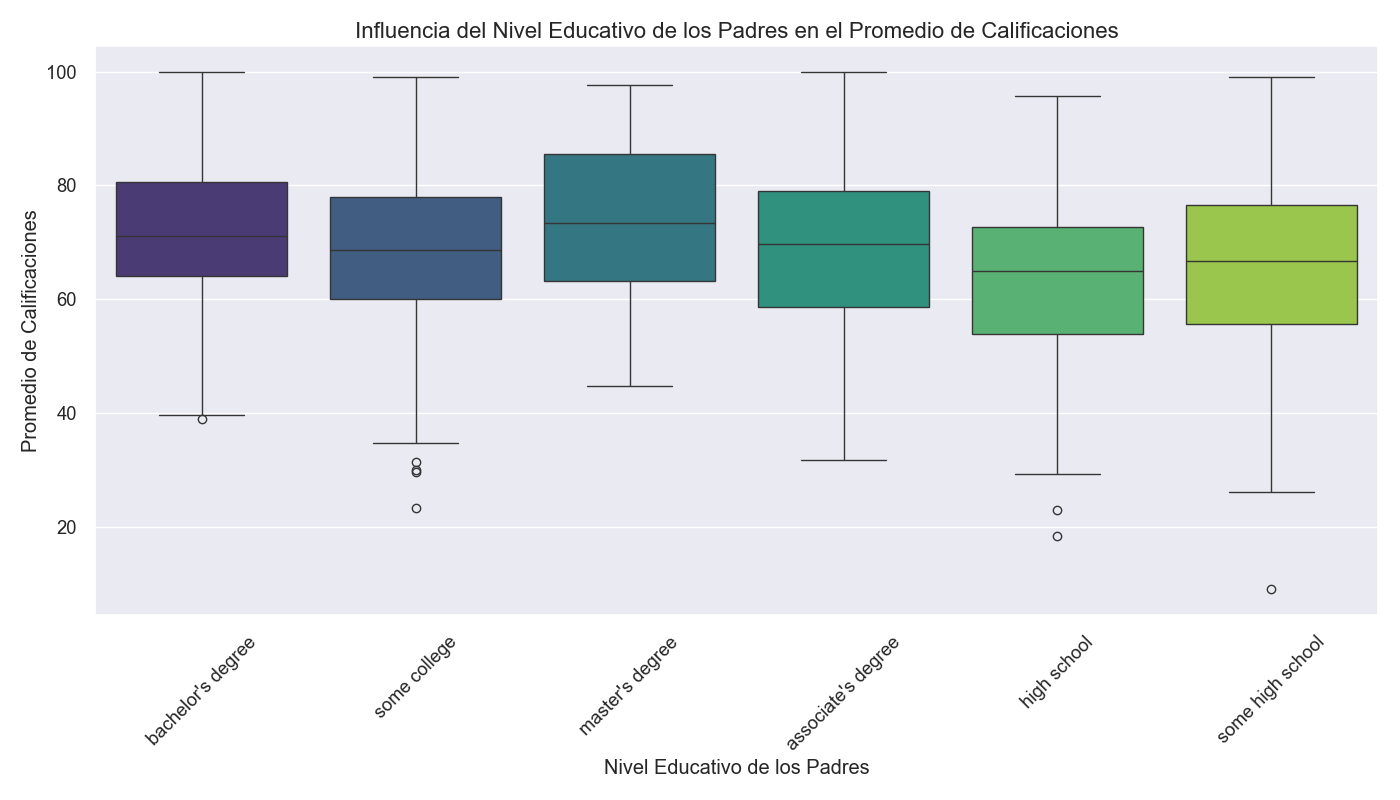
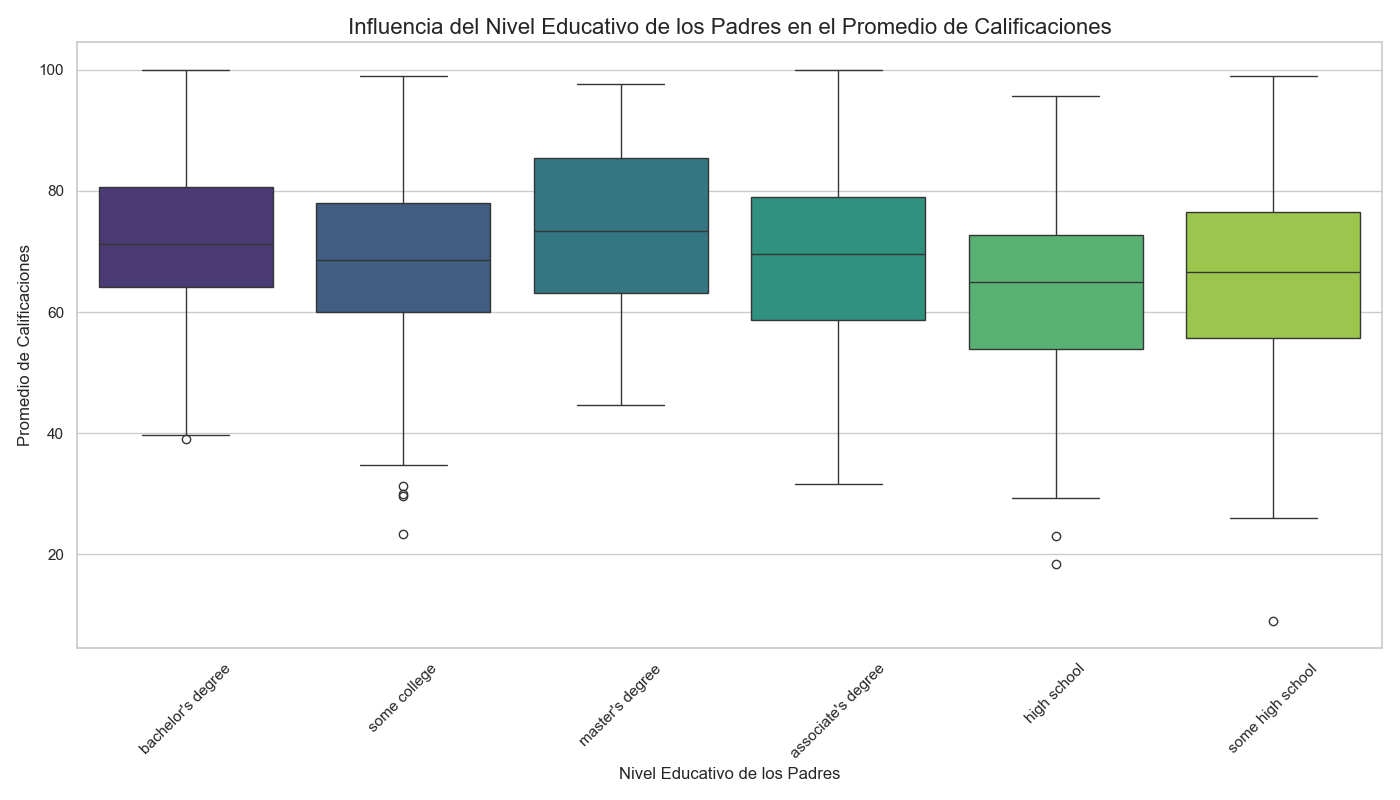
Respuesta 3 clase operacion

diff --git a/core/AnalisisEducacionPadres.py b/core/AnalisisEducacionPadres.py
@@ -1,0 +1,42 @@
+# librarias
+import core.utils as ut
+
+from core.operaciones import Operaciones
+
+class AnalisisEducacionPadres:
+    def __init__(self, df=None):
+        self.df = df
+        self.operar = Operaciones()
+
+    def educacion_padres(self):
+        if self.df is None:
+            print("No data loaded.")
+            return
+        self.operar.calcular_promedio()
+ 
+        # Estadísticas por nivel educativo de los padres
+        ut.plt.figure(figsize=(14, 8))
+        ut.sns.boxplot(
+            x='parental level of education',
+            y='average_score',
+            hue='parental level of education',
+            data=self.df,
+            palette='viridis',
+            legend=False
+        )
+        ut.plt.title('Influencia del Nivel Educativo de los Padres en el Promedio de Calificaciones', fontsize=16)
+        ut.plt.xlabel('Nivel Educativo de los Padres')
+        ut.plt.ylabel('Promedio de Calificaciones')
+        ut.plt.xticks(rotation=45)
+        ut.plt.grid(True, axis='y')
+        ut.plt.tight_layout()
+        
+        if not ut.os.path.exists('img'):
+            ut.os.makedirs('img')
+
+        ut.plt.savefig('img/inivel_educativo_padres.png')
+        ut.plt.show()
+
+        education_scores = self.df.groupby('parental level of education')['average_score'].agg(['mean', 'median', 'std']).sort_values('mean', ascending=False)
+        print("\nEstadísticas por nivel educativo de los padres:")
+        print(ut.tabulate(education_scores, headers='keys', tablefmt='fancy_grid', showindex=True))

diff --git a/core/DataAnalysis.py b/core/DataAnalysis.py
@@ -5,6 +5,8 @@ import core.utils as ut
 from core.LoadData import LoadData
 from core.DistribucionMultiple import DistribucionMultiple
 from core.LimpiaValida import LimpiaValida
+from core.operaciones import Operaciones
+from core.AnalisisEducacionPadres import AnalisisEducacionPadres
 
 class DataAnalysis:
     def __init__(self):
@@ -12,12 +14,16 @@ class DataAnalysis:
         self.loader = LoadData()
         self.multiple = DistribucionMultiple()
         self.valida = LimpiaValida()
+        self.operar = Operaciones()
+        self.edu_padres = AnalisisEducacionPadres()
 
     # Cargar datos
     def load_data(self, file_path):
         self.df = self.loader.load_data(file_path)
         self.multiple.df = self.df
         self.valida.df = self.df
+        self.operar.df = self.df
+        self.edu_padres.df = self.df
 
     # Cargar datos sin encabezado
     def load_data_not_head(self, file_path):
@@ -61,3 +67,25 @@ class DataAnalysis:
     def analizar_distribuciones_multiples(self, *columns):
         self.multiple.analizar(columns)
         
+    # Respuesta Segunda pregunta
+
+        
+    # Respuesta Tercera pregunta
+    def influencia_padres_educacion(self):
+        self.operar.calcular_promedio()
+        self.edu_padres.educacion_padres()
+
+
+    # Respuesta Cuarta pregunta
+    
+    # Respuesta Quinta pregunta
+    
+    # Respuesta Sexta pregunta
+    
+    # Respuesta Septima pregunta
+    
+    # Respuesta Octava pregunta
+    
+    # Respuesta Novena pregunta
+    
+    # Respuesta Decima pregunta

diff --git a/core/LimpiaValida.py b/core/LimpiaValida.py
@@ -44,8 +44,13 @@ class LimpiaValida:
             print("No hay datos para verificar la información.")
             return
 
-        print("Información del DataFrame:")
-        print(self.df.info())
+        print("Forma del DataFrame:", self.df.shape)
+        print("\nPrimeras 5 filas:")
+        print(self.df.head())
+        print("\nInformación del DataFrame:")
+        self.df.info()
+        print("\nEstadísticas descriptivas:")
+        print(self.df.describe())
 
     def validar_descriptivos(self):
         if self.df is None:
@@ -152,4 +157,3 @@ class LimpiaValida:
 
         print("Datos limpios (primeras filas):")
         print(self.df.head())
-        

diff --git a/core/operaciones.py b/core/operaciones.py
@@ -1,0 +1,19 @@
+# librarias
+import core.utils as ut
+
+class Operaciones:
+    def __init__(self, df=None):
+        self.df = df    
+    
+    def calcular_promedio(self):
+        if self.df is None:
+            print("DataFrame no ha sido inicializado.")
+            return
+
+        self.df['average_score'] = (
+            self.df['math score'] +
+            self.df['reading score'] +
+            self.df['writing score']
+        ) / 3
+
+        return self.df
